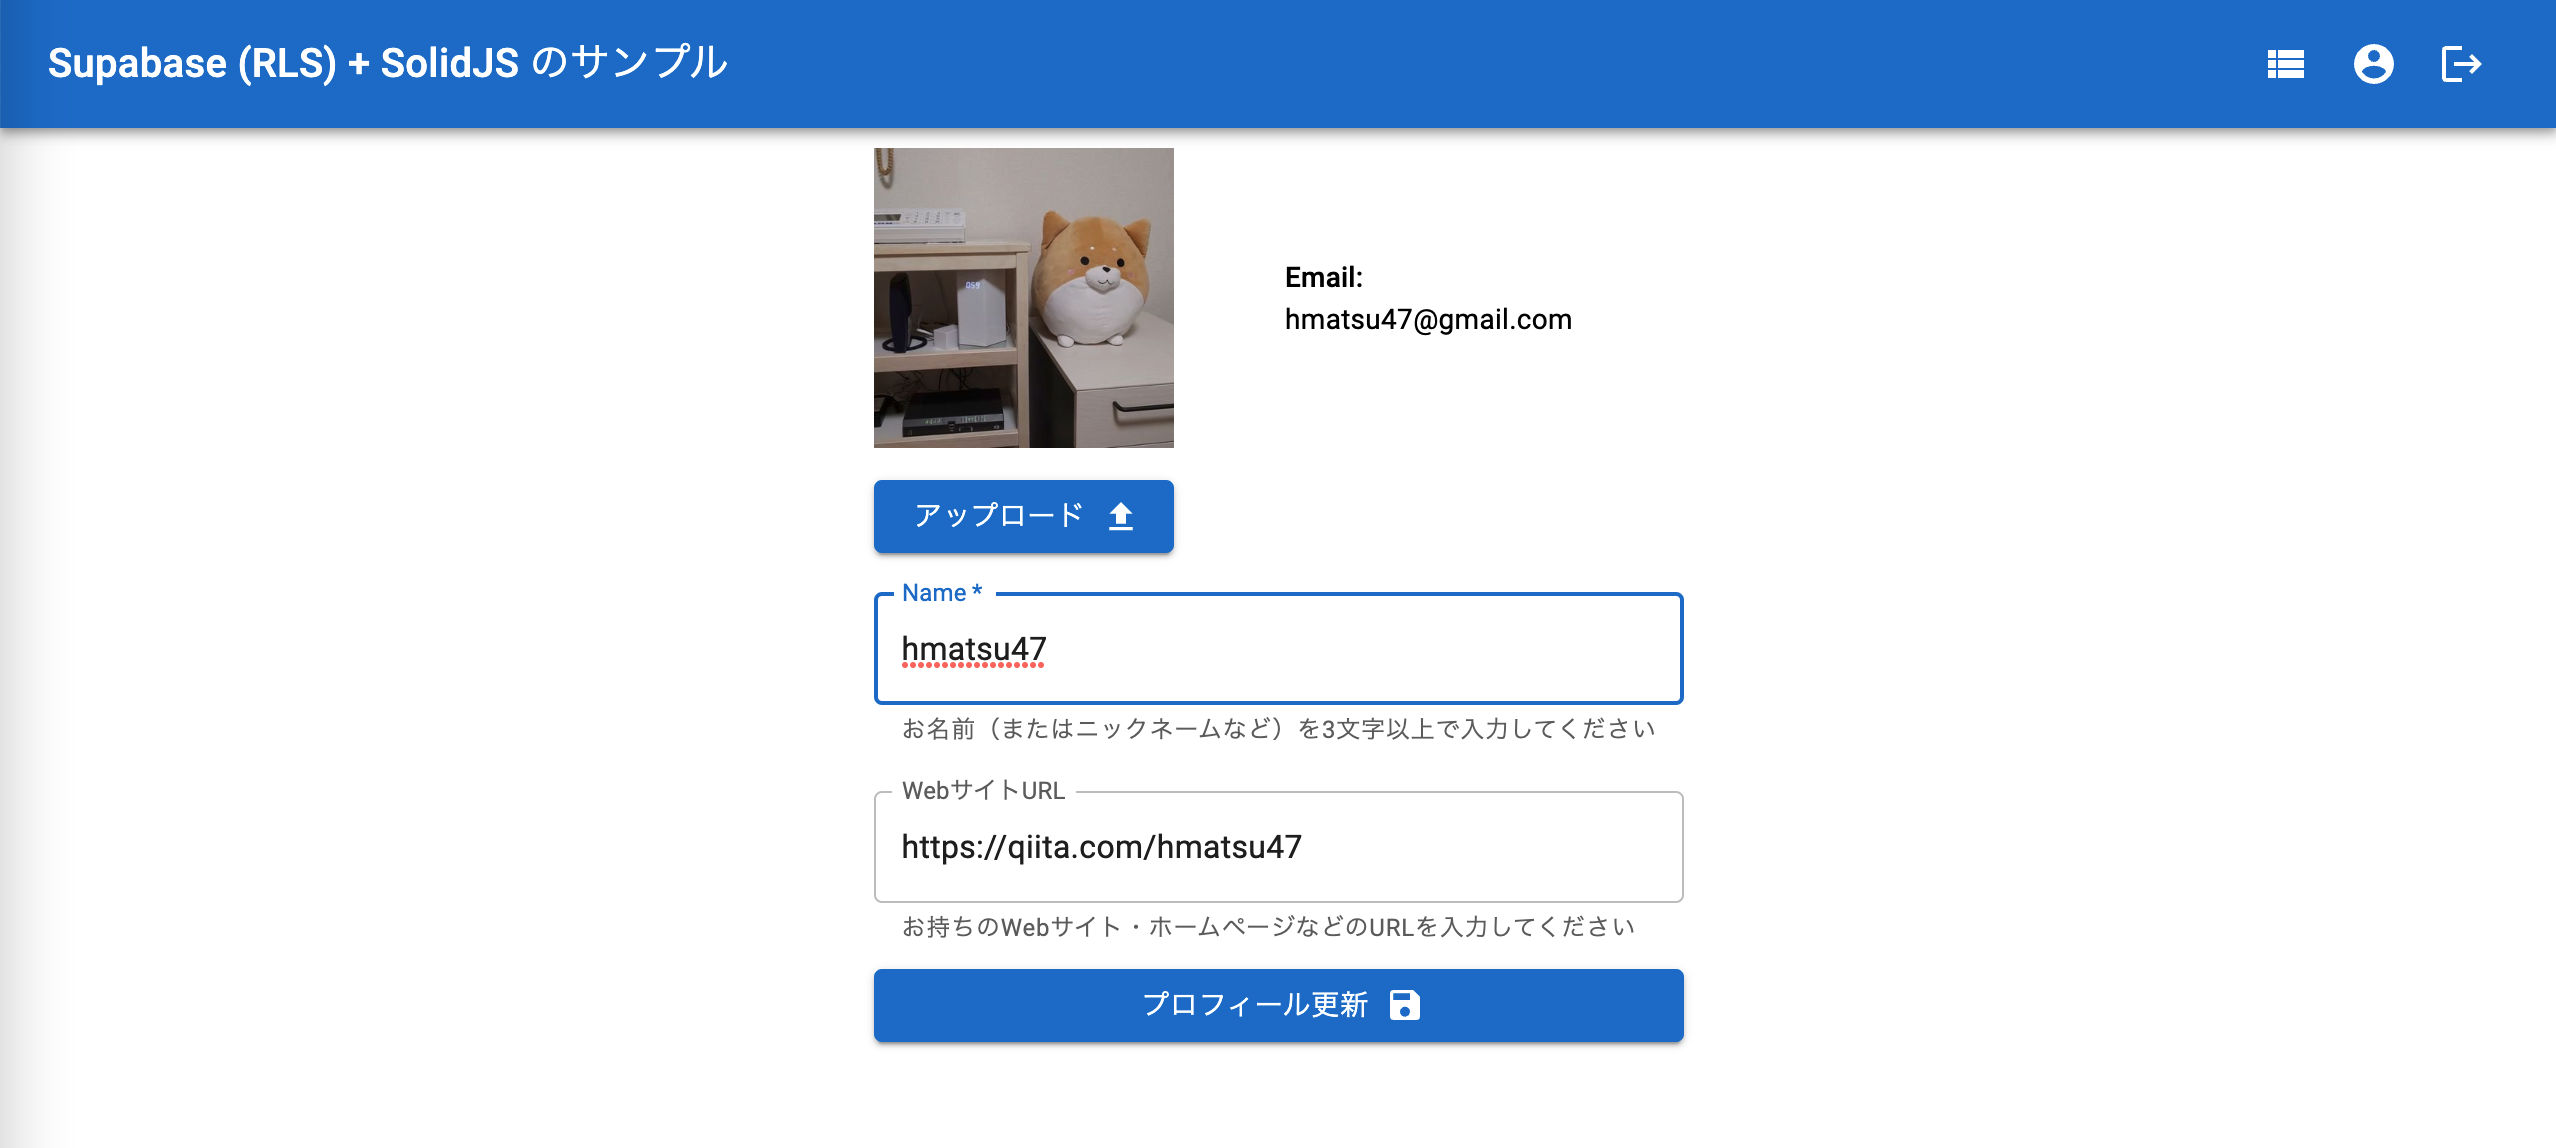
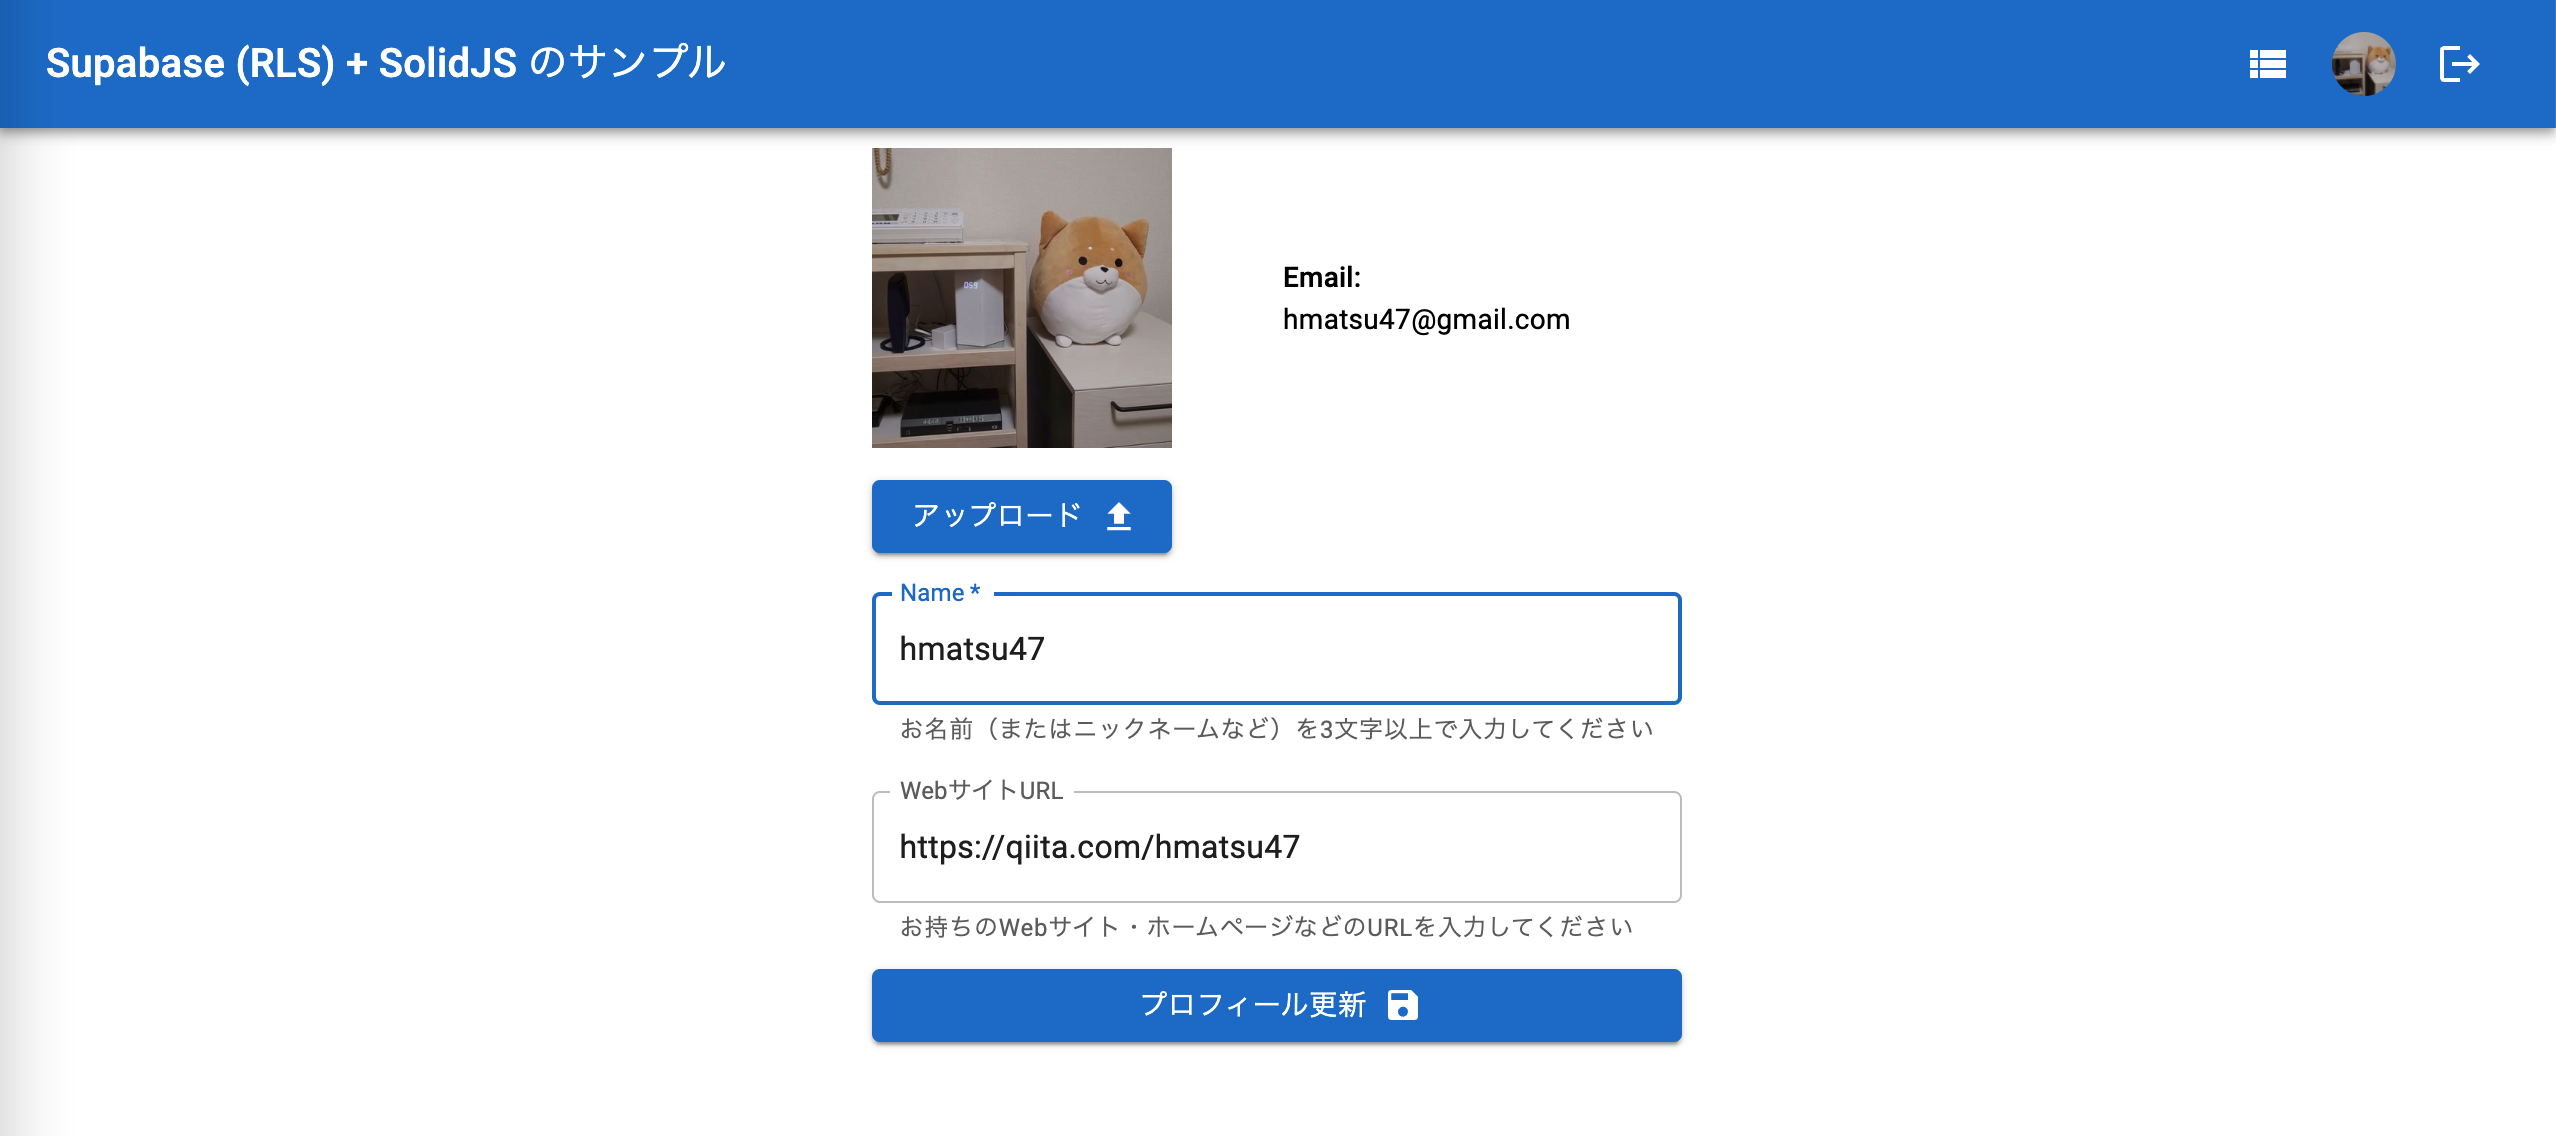
タイトルバーのアバター表示対応

diff --git a/articles/solidjs-suid-sample.md b/articles/solidjs-suid-sample.md
@@ -127,9 +127,9 @@ SolidJS のバージョンによってはこの「出し分け」がなくても
 
 #### 使用例
 
-- [ViewItem.tsx](https://github.com/hmatsu47/pgunconf-sample-app/blob/db444f9a243baae3a7780eb9a4012200d29f8137/src/ViewItem.tsx#L38)（38 行目〜）
+- [ViewItem.tsx](https://github.com/hmatsu47/pgunconf-sample-app/blob/0330fda87b50cff25db49ab2b5fc0ead42a5a835/src/ViewItem.tsx#L37)（37 行目〜）
 
-```tsx:ViewItem.tsx（38行目〜）
+```tsx:ViewItem.tsx（37行目〜）
   <Card
     id="itemCard"
     variant="outlined"
@@ -204,7 +204,7 @@ SolidJS のバージョンによってはこの「出し分け」がなくても
 
 React 用 MUI にある [Collapse API](https://mui.com/material-ui/api/collapse/) に対応していないため、上に記したコードでも SolidJS 自体が持つ [Show API](https://www.solidjs.com/docs/latest/api#%3Cshow%3E) を使って類似の処理をしています（Collapse API とは違いアニメーション動作はしません）。
 
-```tsx:ViewItem.tsx（52行目〜：展開ボタン部分）
+```tsx:ViewItem.tsx（51行目〜：展開ボタン部分）
   <Switch fallback={<></>}>
     <Match when={!expand()}>
       <ExpandMoreIcon aria-label="expand more"/>
@@ -215,7 +215,7 @@ React 用 MUI にある [Collapse API](https://mui.com/material-ui/api/collapse/
   </Switch>
 ```
 
-```tsx:ViewItem.tsx（108行目〜：実際に展開する部分）
+```tsx:ViewItem.tsx（92行目〜：実際に展開する部分）
   <Show
     when={expand()}
     fallback={<></>}
@@ -250,38 +250,27 @@ React 用 MUI にある [Collapse API](https://mui.com/material-ui/api/collapse/
 
 ## おまけ：アバター（`Avatar`）表示
 
-SUID 0.3.0 で [`Avatar`](https://suid.io/components/avatar) に対応したので、一覧表示で使ってみました。
+SUID 0.3.0 で [`Avatar`](https://suid.io/components/avatar) に対応したので、一覧表示とタイトルバーで使ってみました。
 
 #### 使用例
 
-- [ViewItem.tsx](https://github.com/hmatsu47/pgunconf-sample-app/blob/db444f9a243baae3a7780eb9a4012200d29f8137/src/ViewItem.tsx#L68)（68 行目〜）
+- [ViewItem.tsx](https://github.com/hmatsu47/pgunconf-sample-app/blob/0330fda87b50cff25db49ab2b5fc0ead42a5a835/src/ViewItem.tsx#L67)（67 行目〜）
 
-```tsx:ViewItem.tsx（68行目〜）
-<Show
-  when={props.avatar && props.avatar !== ''}
-  fallback={
-    <Avatar
-      alt={props.article.userName}
-      sx={{
-        width: 28,
-        height: 28
-      }}
-    >
-      <PersonIcon />
-    </Avatar>
-  }
->
-  <Avatar
-    alt={props.article.userName}
-    src={props.avatar}
-    sx={{
-      width: 28,
-      height: 28
-    }}
-  />
-</Show>
+```tsx:ViewItem.tsx（67行目〜）
+<Avatar
+  alt={props.article.userName}
+  src={props.avatar}
+  sx={{
+    width: 28,
+    height: 28
+  }}
+/>
 ```
 
-`fallback`で指定しているのが Material Icon（`Person`）での表示、下の部分が`src`での画像表示です。
+`src`で指定した画像のロードに失敗した場合は自動的にフォールバックしてデフォルトのアバターアイコン（Person）が表示されます。
+
+:::message
+本家 MUI では`alt`が指定されているとその頭文字が表示されるようですが、SUID では`alt`に関係なく Person のアイコンが表示されるようです。
+:::
 
 ![](/images/solidjs-suid-sample/avatar.png)
